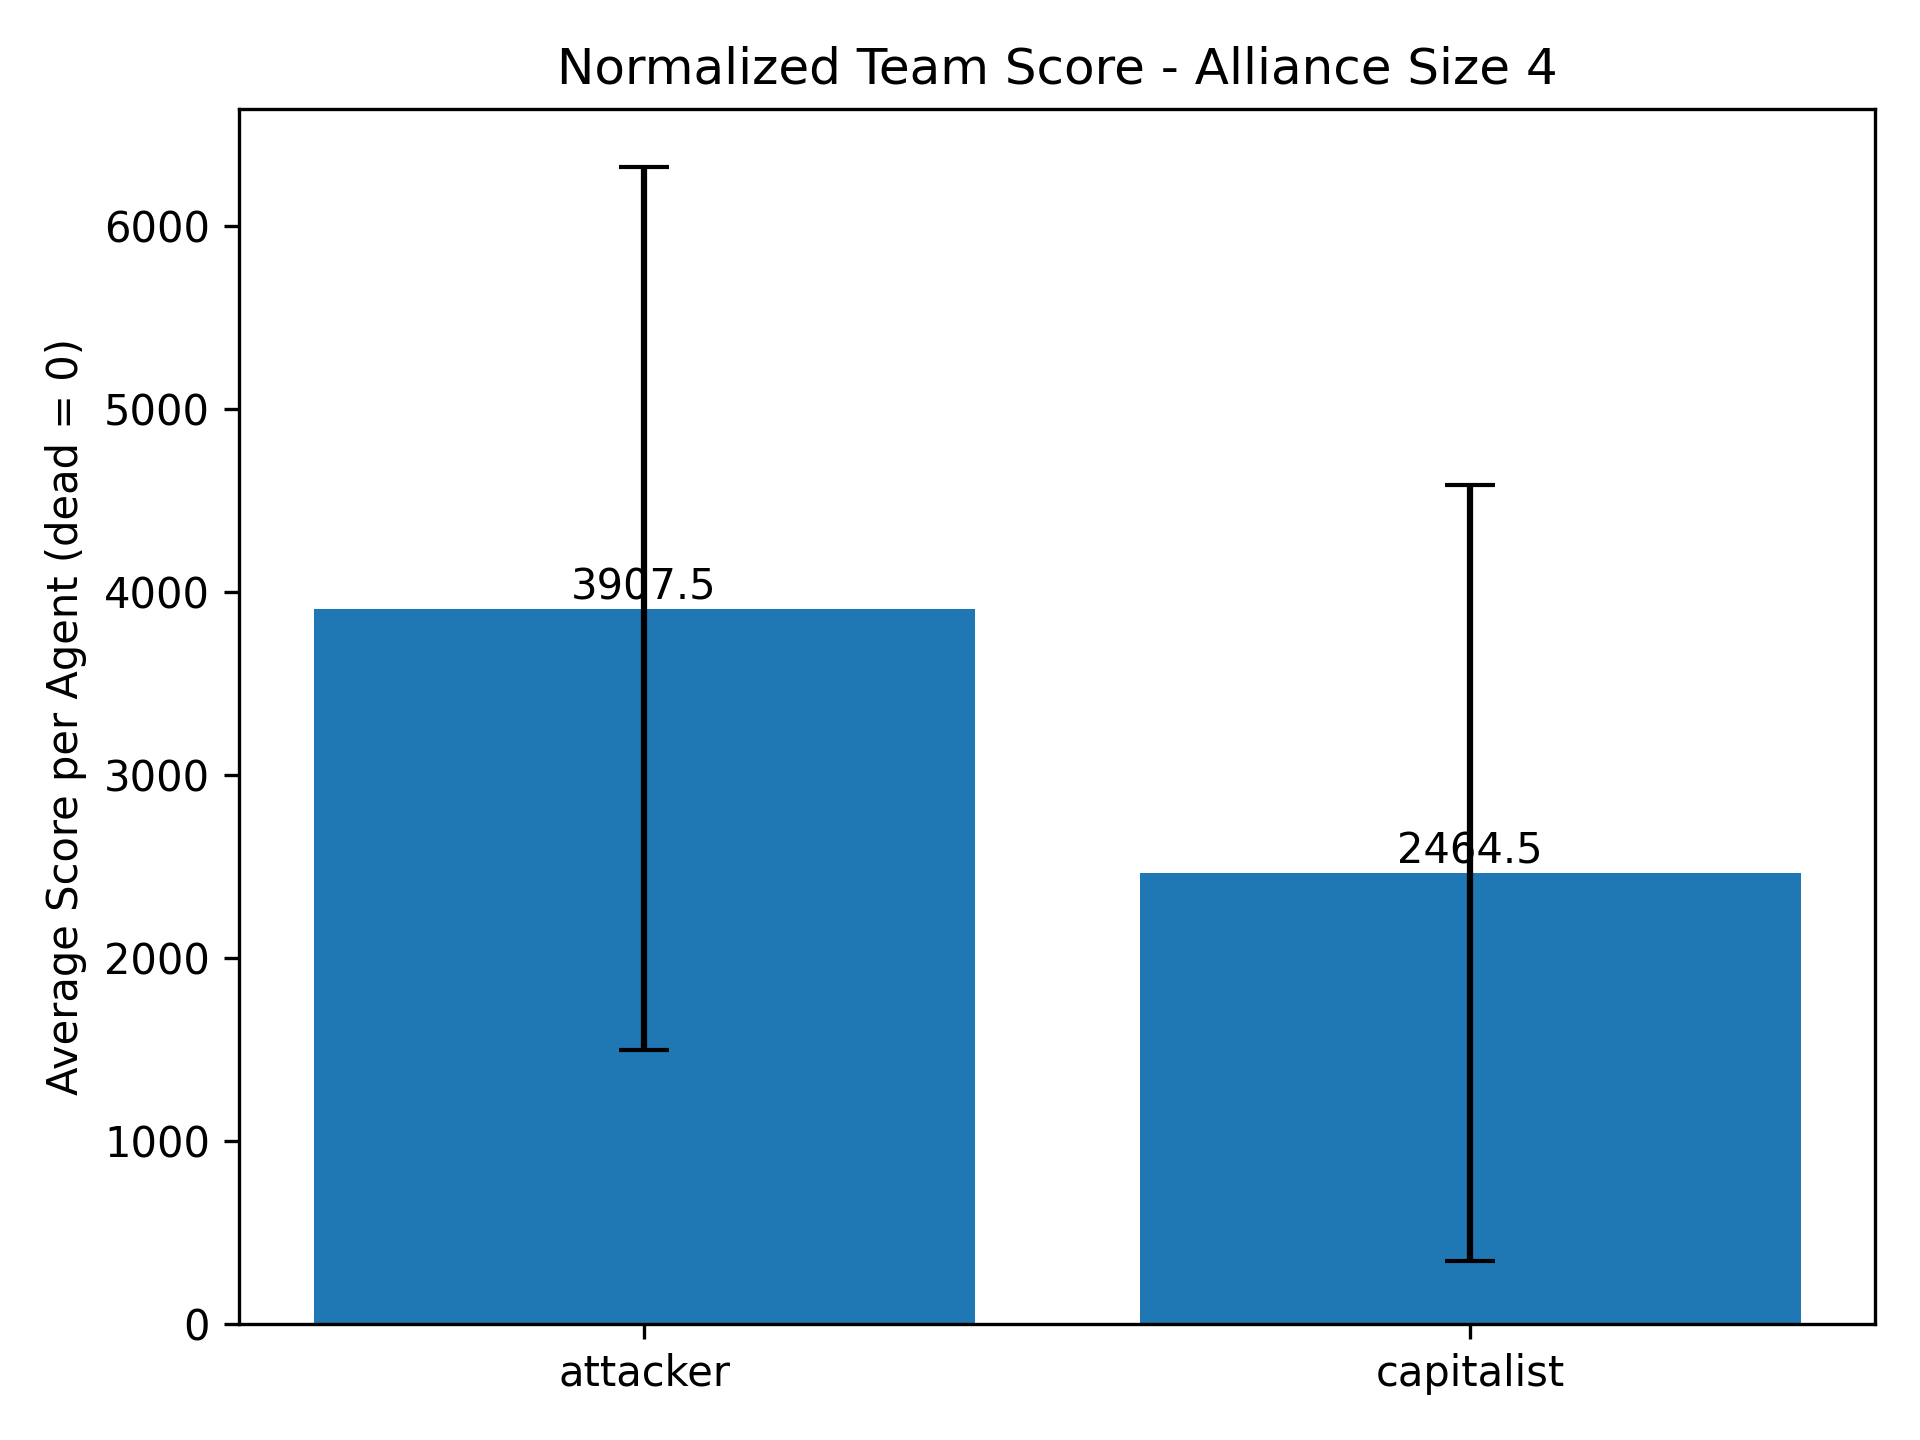
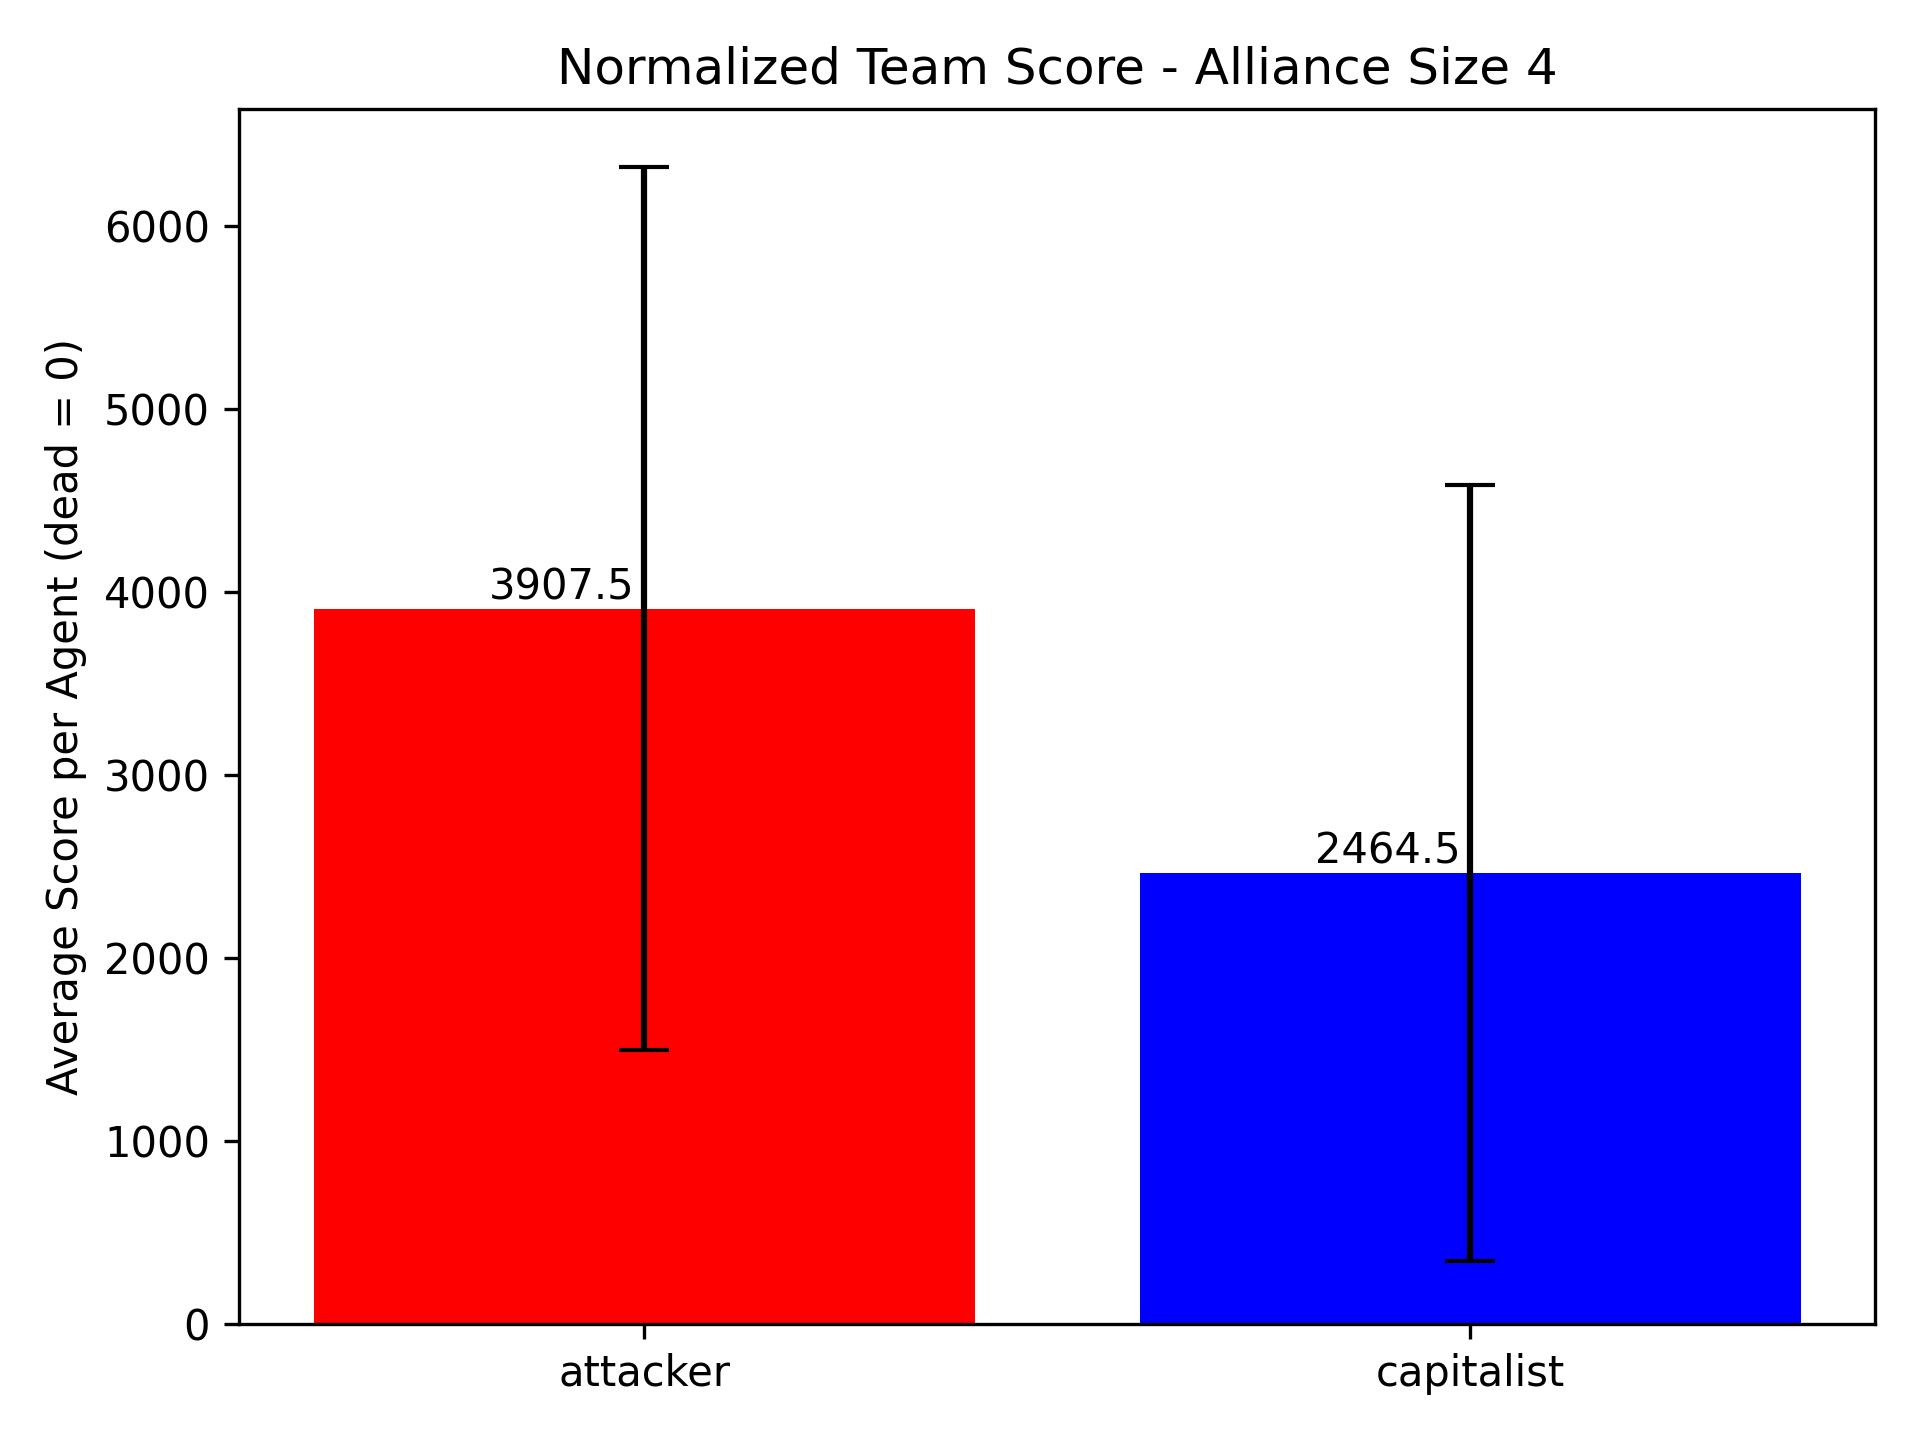
Updated the plots to include colours.

Changed region(s): [[0.1562, 0.375, 0.5312, 0.9375], [0.5938, 0.5625, 0.9375, 0.9375]]

diff --git a/data_analysis/analyze_results.py b/data_analysis/analyze_results.py
@@ -3,6 +3,11 @@ import pandas as pd
 import matplotlib.pyplot as plt
 from matplotlib.lines import Line2D
 
+TEAM_COLORS = {
+    "attacker": "red",
+    "capitalist": "blue",
+}
+
 def parse_yaml(file_path):
     with open(file_path, "r") as f:
         data = yaml.safe_load(f)
@@ -98,7 +103,8 @@ def avg_score_plot_for(df, alliance_size):
         stats.index,
         stats["mean"],
         yerr=stats["std"],
-        capsize=6
+        capsize=6,
+        color=[TEAM_COLORS[t] for t in stats.index]
     )
 
     ax.set_ylabel("Average Score per Agent (dead = 0)")
@@ -106,7 +112,7 @@ def avg_score_plot_for(df, alliance_size):
 
     for bar, mean in zip(bars, stats["mean"]):
         ax.text(
-            bar.get_x() + bar.get_width() / 2,
+            bar.get_x() + bar.get_width() / 2 - 0.1,
             bar.get_height(),
             f"{mean:.1f}",
             ha="center",
@@ -138,7 +144,8 @@ def survival_rate_plot_for(df, alliance_size):
         stats.index,
         stats["mean"],
         yerr=stats["std"],
-        capsize=6
+        capsize=6,
+        color=[TEAM_COLORS[t] for t in stats.index]
     )
 
     ax.set_ylabel("Survival Probability")
@@ -147,7 +154,7 @@ def survival_rate_plot_for(df, alliance_size):
 
     for bar, mean in zip(bars, stats["mean"]):
         ax.text(
-            bar.get_x() + bar.get_width() / 2,
+            bar.get_x() + bar.get_width() / 2 - 0.1,
             bar.get_height(),
             f"{mean:.2f}",
             ha="center",
